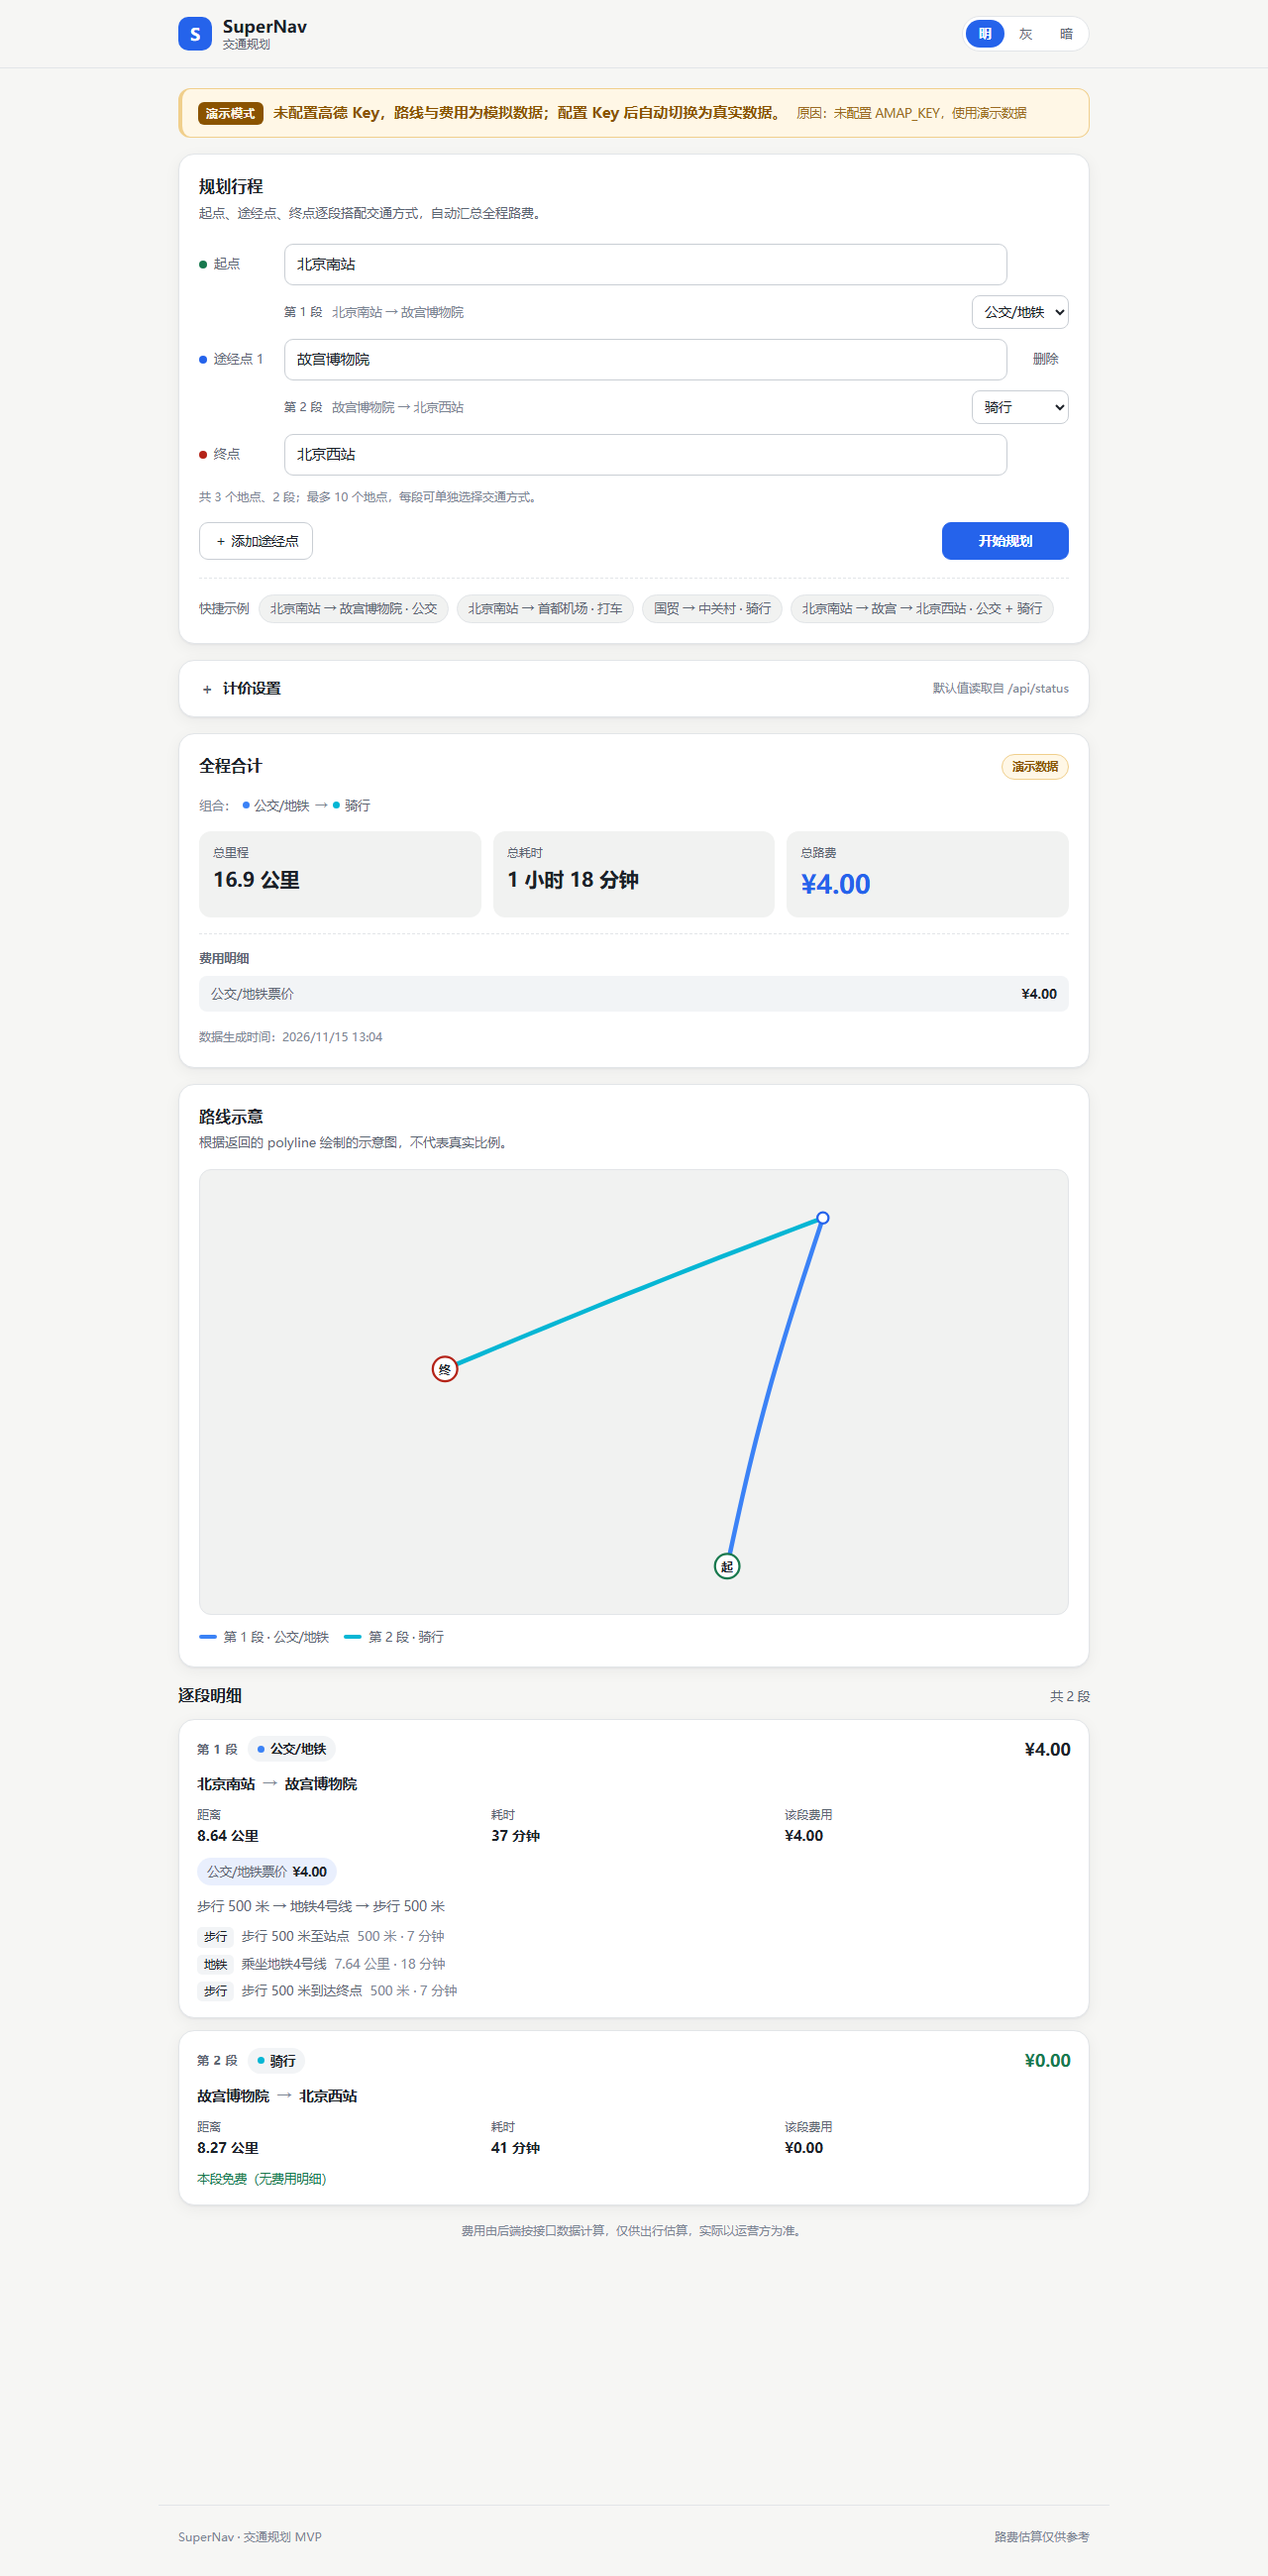
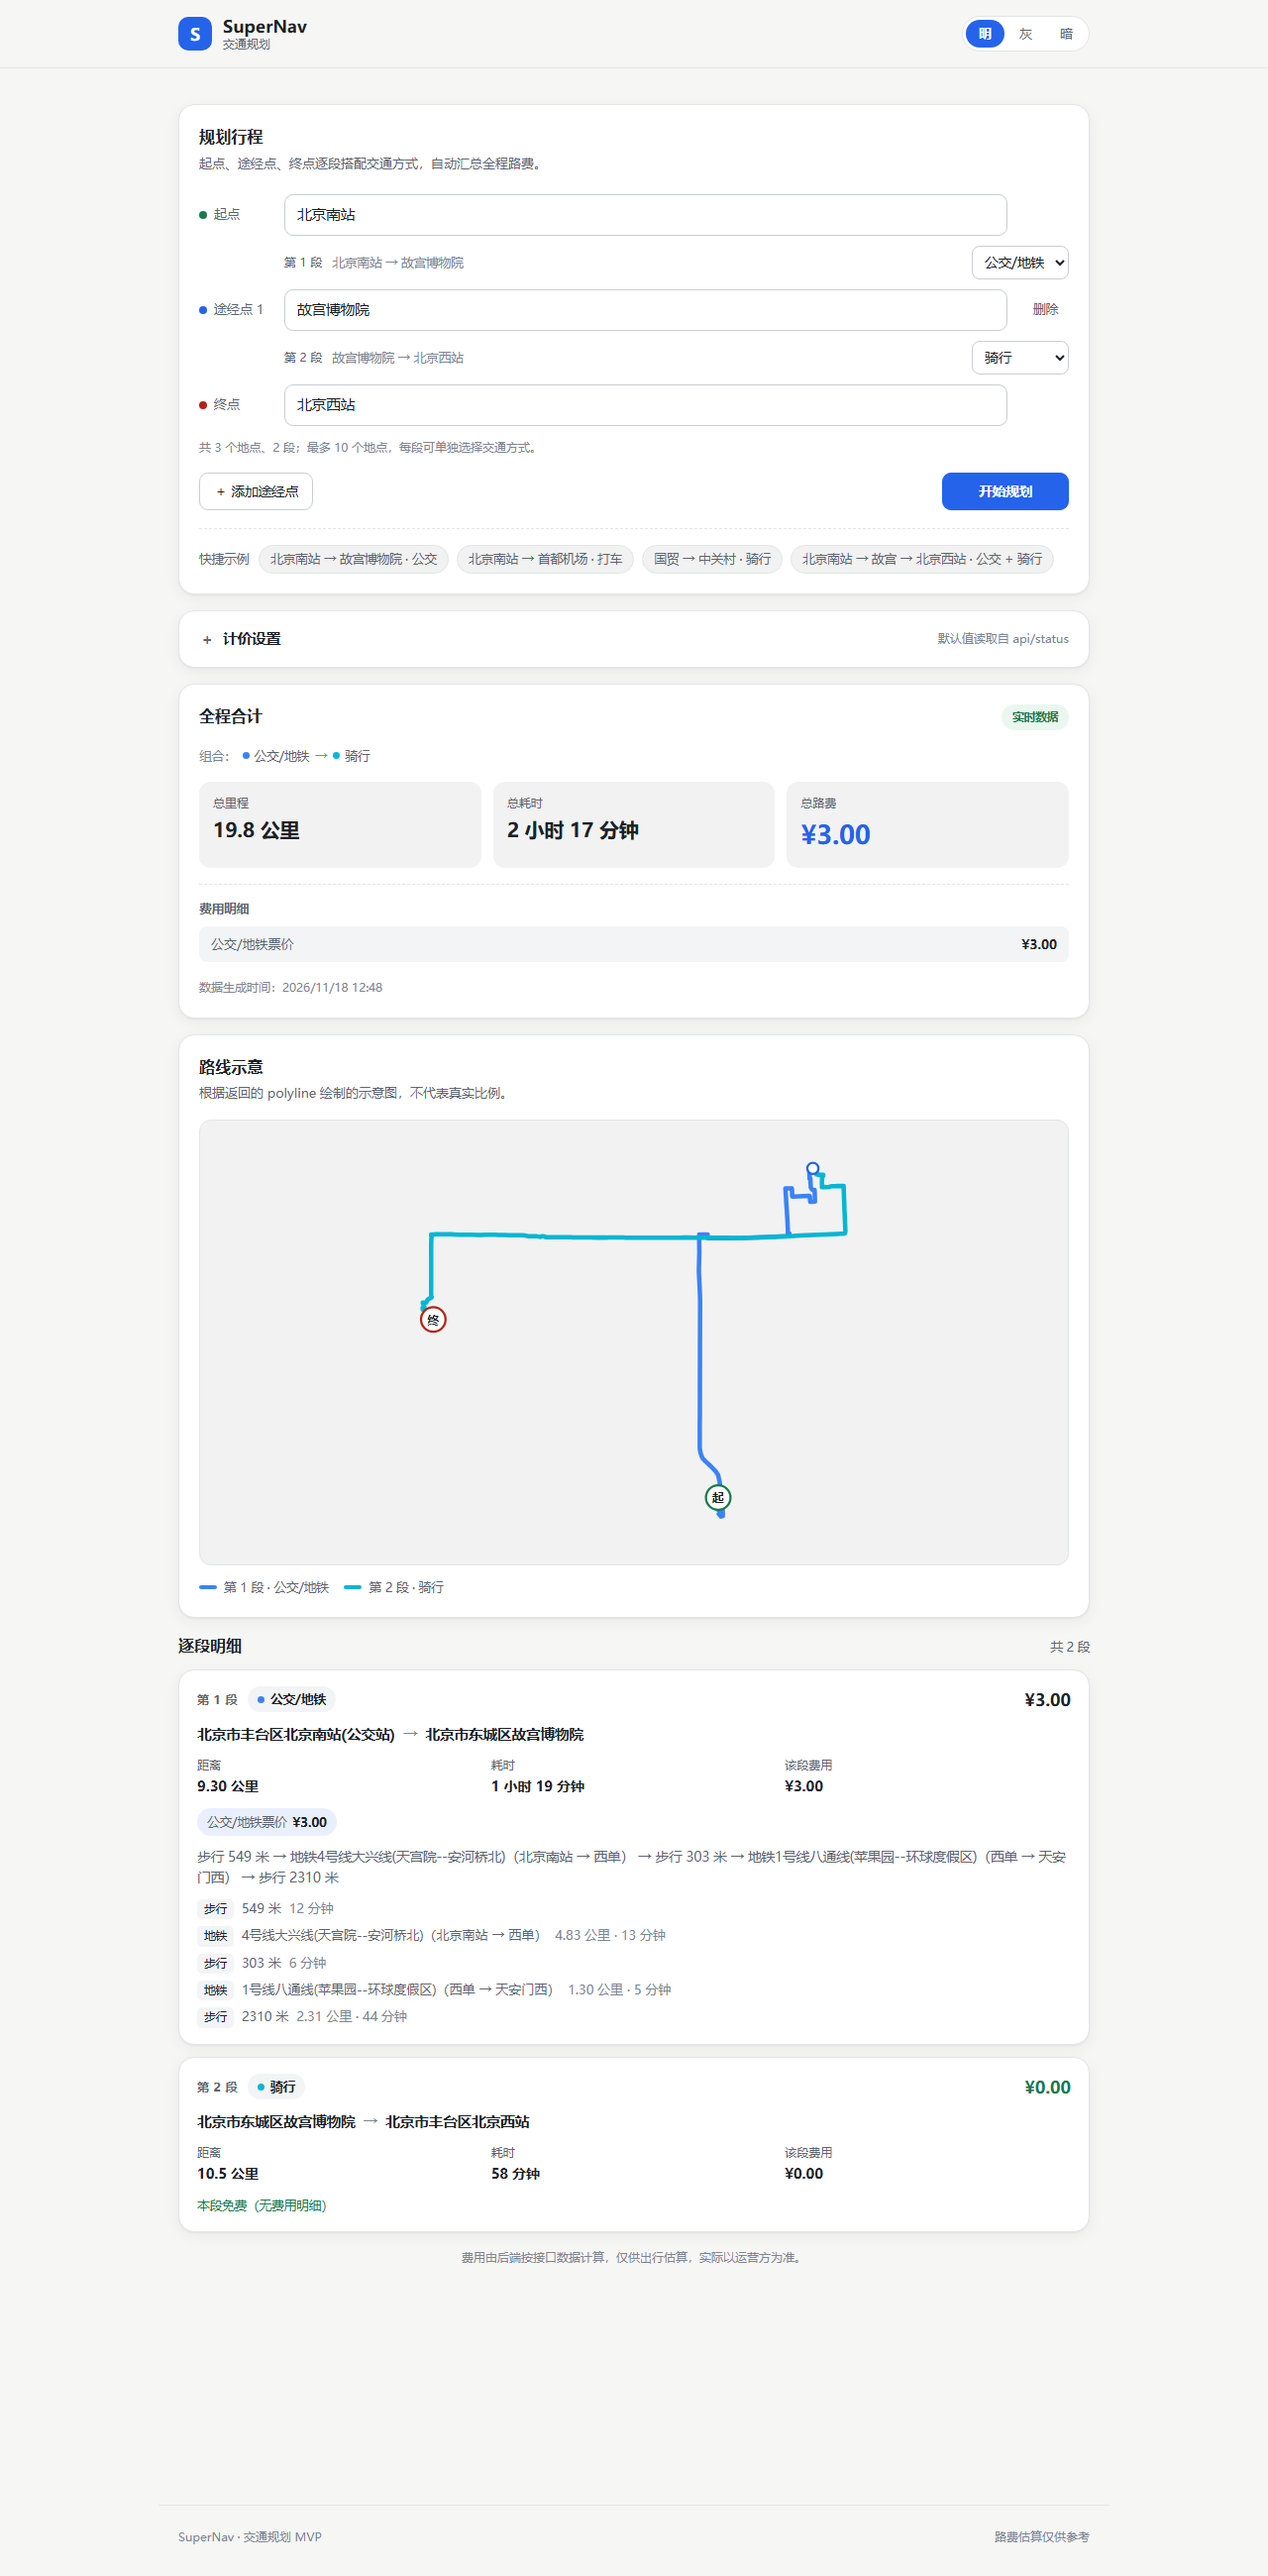
chore: 发布 v0.1.1（真实高德数据联调、公交解析修复、线上截图更新）

diff --git a/backend/__init__.py b/backend/__init__.py
@@ -2,4 +2,4 @@
 
 from __future__ import annotations
 
-__version__ = "0.1.0"
+__version__ = "0.1.1"
